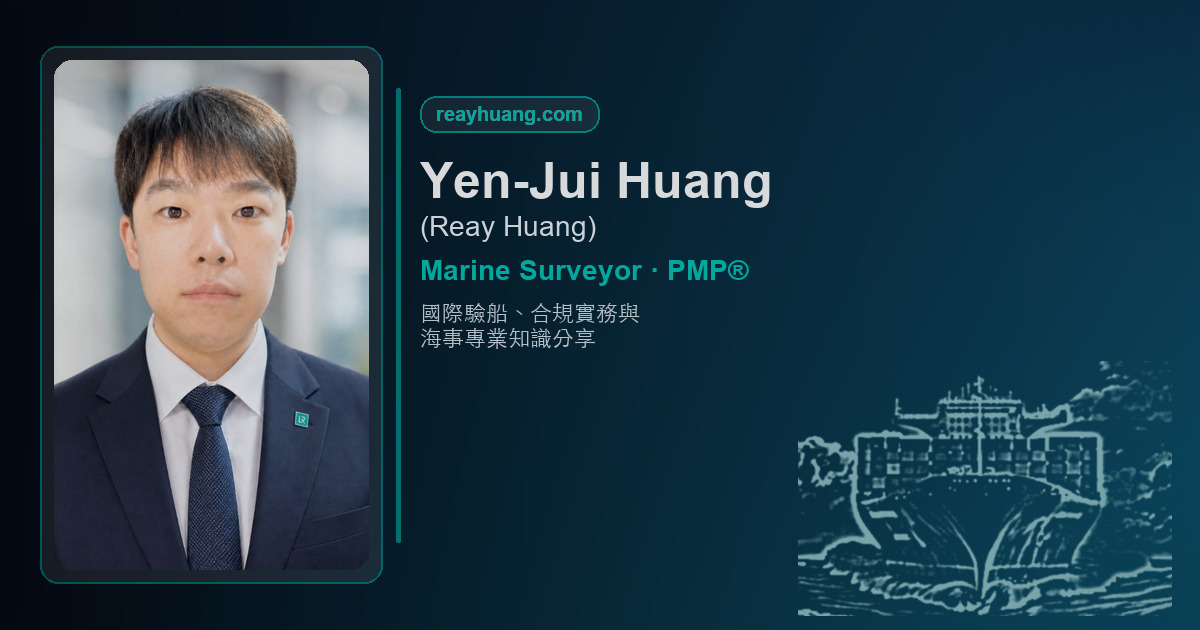
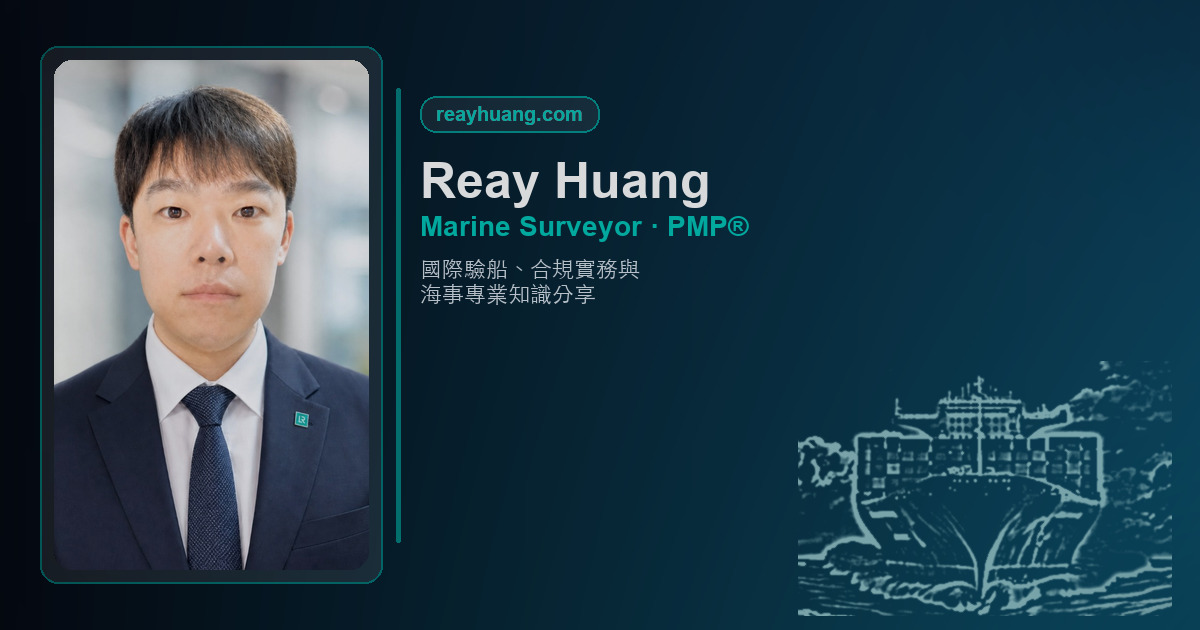
Rebrand site identity from Yen-Jui Huang to Reay Huang.
Use Reay Huang consistently in headers, metadata, footers, and OG preview images so the personal brand is easier to remember.

Changed region(s): [[0.3392, 0.2413, 0.6475, 0.573]]

diff --git a/index.html b/index.html
@@ -7,9 +7,9 @@
 
   <meta charset="UTF-8">
   <meta name="viewport" content="width=device-width, initial-scale=1">
-  <meta name="description" content="Yen-Jui Huang (Reay Huang) — Lloyd's Register Marine Surveyor, PMP®. Maritime notes, management notes, and professional knowledge.">
-  <title>Yen-Jui Huang | Marine Surveyor · PMP®</title>
-  <meta property="og:title" content="Yen-Jui Huang | Marine Surveyor · PMP®" />
+  <meta name="description" content="Reay Huang — Lloyd's Register Marine Surveyor, PMP®. Maritime notes, management notes, and professional knowledge.">
+  <title>Reay Huang | Marine Surveyor · PMP®</title>
+  <meta property="og:title" content="Reay Huang | Marine Surveyor · PMP®" />
   <meta property="og:description" content="International survey, compliance, and professional insights in maritime practice. Lloyd's Register Surveyor based in Ulsan, Korea." />
   <meta property="og:type" content="website" />
   <meta property="og:locale" content="en_US" />
@@ -18,12 +18,12 @@
   <link rel="canonical" href="https://reayhuang.com/" />
   <!-- Social preview: og:image must be a public HTTPS URL (LinkedIn, Slack, iMessage, etc.) -->
   <meta property="og:image" content="https://reayhuang.com/assets/images/homepage-linkedin-preview.en-1200.jpg" />
-  <meta property="og:image:alt" content="Yen-Jui Huang — Marine Surveyor · PMP®" />
+  <meta property="og:image:alt" content="Reay Huang — Marine Surveyor · PMP®" />
   <meta property="og:image:type" content="image/jpeg" />
   <meta property="og:image:width" content="1200" />
   <meta property="og:image:height" content="630" />
   <meta name="twitter:card" content="summary_large_image" />
-  <meta name="twitter:title" content="Yen-Jui Huang | Marine Surveyor · PMP®" />
+  <meta name="twitter:title" content="Reay Huang | Marine Surveyor · PMP®" />
   <meta name="twitter:description" content="International survey, compliance, and professional insights in maritime practice." />
   <meta name="twitter:image" content="https://reayhuang.com/assets/images/homepage-linkedin-preview.en-1200.jpg" />
   <link rel="alternate" hreflang="en" href="index.html" />
@@ -36,7 +36,7 @@
     <div class="site-header__inner">
       <a class="site-logo" href="index.html">
         <span class="site-logo__text">
-          Yen-Jui Huang
+          Reay Huang
           <span class="site-logo__role">Marine Surveyor · PMP®</span>
         </span>
       </a>
@@ -62,14 +62,14 @@
       <img
         class="hero-banner__photo"
         src="assets/images/reay-huang.png"
-        alt="Portrait of Yen-Jui Huang (Reay Huang)"
+        alt="Portrait of Reay Huang"
         width="788"
         height="1024"
       >
       <div>
         <h1 id="hero-title">Professional insights in marine survey and compliance</h1>
         <p class="lead">
-          I am <strong>Yen-Jui Huang</strong> (Reay Huang), a Lloyd's Register Surveyor based in Ulsan, Korea,
+          I am <strong>Reay Huang</strong>, a Lloyd's Register Surveyor based in Ulsan, Korea,
           and a <strong>PMP®</strong>. I previously spent more than 13 years at Evergreen Marine as Chief Engineer
           and Technical Superintendent for container fleets. This site collects my notes on maritime survey,
           regulations, and management topics.
@@ -164,8 +164,8 @@
 
   <footer class="site-footer">
     <div class="site-footer__inner">
-      <p class="site-footer__brand">Yen-Jui Huang</p>
-      <p>© <span id="year"></span> Yen-Jui Huang (Reay Huang) · Personal professional site</p>
+      <p class="site-footer__brand">Reay Huang</p>
+      <p>© <span id="year"></span> Reay Huang · Personal professional site</p>
       <p>
         <a href="https://www.linkedin.com/in/yen-jui-huang-pmp%C2%AE-a74285a2/" rel="noopener noreferrer">LinkedIn</a>
         · Employed at <a href="https://www.lr.org/en/" rel="noopener noreferrer">Lloyd's Register</a> (personal site; not an official company statement)

diff --git a/index.zh.html b/index.zh.html
@@ -7,9 +7,9 @@
 
   <meta charset="UTF-8">
   <meta name="viewport" content="width=device-width, initial-scale=1">
-  <meta name="description" content="Yen-Jui Huang（Reay Huang）— Lloyd's Register 驗船師、PMP®。海事筆記、管理筆記與專業知識分享。">
-  <title>Yen-Jui Huang｜海事驗船師 · PMP®</title>
-  <meta property="og:title" content="Yen-Jui Huang｜海事驗船師 · PMP®" />
+  <meta name="description" content="Reay Huang — Lloyd's Register 驗船師、PMP®。海事筆記、管理筆記與專業知識分享。">
+  <title>Reay Huang｜海事驗船師 · PMP®</title>
+  <meta property="og:title" content="Reay Huang｜海事驗船師 · PMP®" />
   <meta property="og:description" content="國際驗船、合規實務與海事專業知識分享。Lloyd's Register 驗船師，韓國蔚山。" />
   <meta property="og:type" content="website" />
   <meta property="og:locale" content="zh_TW" />
@@ -18,12 +18,12 @@
   <link rel="canonical" href="https://reayhuang.com/index.zh.html" />
   <!-- 分享預覽：og:image 必須是可公開存取的 HTTPS 完整網址 -->
   <meta property="og:image" content="https://reayhuang.com/assets/images/homepage-linkedin-preview-1200.jpg" />
-  <meta property="og:image:alt" content="Yen-Jui Huang — 海事驗船師 · PMP®" />
+  <meta property="og:image:alt" content="Reay Huang — 海事驗船師 · PMP®" />
   <meta property="og:image:type" content="image/jpeg" />
   <meta property="og:image:width" content="1200" />
   <meta property="og:image:height" content="630" />
   <meta name="twitter:card" content="summary_large_image" />
-  <meta name="twitter:title" content="Yen-Jui Huang｜海事驗船師 · PMP®" />
+  <meta name="twitter:title" content="Reay Huang｜海事驗船師 · PMP®" />
   <meta name="twitter:description" content="國際驗船、合規實務與海事專業知識分享。" />
   <meta name="twitter:image" content="https://reayhuang.com/assets/images/homepage-linkedin-preview-1200.jpg" />
   <link rel="alternate" hreflang="en" href="index.html" />
@@ -36,7 +36,7 @@
     <div class="site-header__inner">
       <a class="site-logo" href="index.zh.html">
         <span class="site-logo__text">
-          Yen-Jui Huang
+          Reay Huang
           <span class="site-logo__role">Marine Surveyor · PMP®</span>
         </span>
       </a>
@@ -62,14 +62,14 @@
       <img
         class="hero-banner__photo"
         src="assets/images/reay-huang.png"
-        alt="Yen-Jui Huang（Reay Huang）形象照"
+          alt="Reay Huang 形象照"
         width="788"
         height="1024"
       >
       <div>
         <h1 id="hero-title">海事檢驗與合規的專業知見</h1>
         <p class="lead">
-          我是 <strong>Yen-Jui Huang</strong>（Reay Huang），現任 Lloyd's Register Surveyor（韓國蔚山），
+          我是 <strong>Reay Huang</strong>，現任 Lloyd's Register Surveyor（韓國蔚山），
           PMP®。曾任長榮海運輪機長與貨櫃船隊機務督導逾 13 年。此網站整理海事檢驗、法規與管理相關筆記。
         </p>
         <ul class="hero__tags">
@@ -162,8 +162,8 @@
 
   <footer class="site-footer">
     <div class="site-footer__inner">
-      <p class="site-footer__brand">Yen-Jui Huang</p>
-      <p>© <span id="year"></span> Yen-Jui Huang（Reay Huang）· 個人專業分享網站</p>
+      <p class="site-footer__brand">Reay Huang</p>
+      <p>© <span id="year"></span> Reay Huang · 個人專業分享網站</p>
       <p>
         <a href="https://www.linkedin.com/in/yen-jui-huang-pmp%C2%AE-a74285a2/" rel="noopener noreferrer">LinkedIn</a>
         · 任職於 <a href="https://www.lr.org/en/" rel="noopener noreferrer">Lloyd's Register</a>（個人網站不代表公司立場）

diff --git a/about.html b/about.html
@@ -7,8 +7,8 @@
 
   <meta charset="UTF-8">
   <meta name="viewport" content="width=device-width, initial-scale=1">
-  <meta name="description" content="關於 Yen-Jui Huang（Reay Huang）— Lloyd's Register 驗船師、PMP®、學經歷與聯絡方式">
-  <title>關於我｜Yen-Jui Huang</title>
+  <meta name="description" content="關於 Reay Huang — Lloyd's Register 驗船師、PMP®、學經歷與聯絡方式">
+  <title>關於我｜Reay Huang</title>
   <link rel="alternate" hreflang="zh-Hant" href="about.html" />
   <link rel="alternate" hreflang="en" href="about.en.html" />
   <link rel="alternate" hreflang="x-default" href="about.en.html" />
@@ -19,7 +19,7 @@
     <div class="site-header__inner">
       <a class="site-logo" href="index.zh.html">
         <span class="site-logo__text">
-          Yen-Jui Huang
+          Reay Huang
           <span class="site-logo__role">Marine Surveyor · PMP®</span>
         </span>
       </a>
@@ -51,14 +51,14 @@
         <img
           class="profile__photo"
           src="assets/images/reay-huang.png"
-          alt="Yen-Jui Huang（Reay Huang）形象照"
+          alt="Reay Huang 形象照"
           width="788"
           height="1024"
         >
       </div>
       <div>
         <p>
-          我是 <strong>Yen-Jui Huang</strong>（<strong>Reay Huang</strong>），現任
+          我是 <strong>Reay Huang</strong>，現任
           <a href="https://www.lr.org/en/" rel="noopener noreferrer">Lloyd's Register（LR）</a>
           <strong>Surveyor</strong>，駐點韓國蔚山（Ulsan）從事現場檢驗。
           此前於 <strong>長榮海運（EVERGREEN LINE）</strong> 累積逾 13 年全職資歷，歷任輪機長、
@@ -233,14 +233,14 @@
     </div>
 
     <p class="callout">
-      聲明：本網站為 Yen-Jui Huang（Reay Huang）個人知識分享，內容不代表 Lloyd's Register 或任何雇主之官方立場。
+      聲明：本網站為 Reay Huang 個人知識分享，內容不代表 Lloyd's Register 或任何雇主之官方立場。
     </p>
   </main>
 
   <footer class="site-footer">
     <div class="site-footer__inner">
-      <p class="site-footer__brand">Yen-Jui Huang</p>
-      <p>© <span id="year"></span> Yen-Jui Huang（Reay Huang）</p>
+      <p class="site-footer__brand">Reay Huang</p>
+      <p>© <span id="year"></span> Reay Huang</p>
       <p>
         <a href="https://www.linkedin.com/in/yen-jui-huang-pmp%C2%AE-a74285a2/" rel="noopener noreferrer">LinkedIn</a>
       </p>

diff --git a/about.en.html b/about.en.html
@@ -7,8 +7,8 @@
 
   <meta charset="UTF-8">
   <meta name="viewport" content="width=device-width, initial-scale=1">
-  <meta name="description" content="About Yen-Jui Huang (Reay Huang) — Lloyd's Register Surveyor, PMP®, experience, education, and contact">
-  <title>About | Yen-Jui Huang</title>
+  <meta name="description" content="About Reay Huang — Lloyd's Register Surveyor, PMP®, experience, education, and contact">
+  <title>About | Reay Huang</title>
   <link rel="alternate" hreflang="zh-Hant" href="about.html" />
   <link rel="alternate" hreflang="en" href="about.en.html" />
   <link rel="alternate" hreflang="x-default" href="about.en.html" />
@@ -19,7 +19,7 @@
     <div class="site-header__inner">
       <a class="site-logo" href="index.html">
         <span class="site-logo__text">
-          Yen-Jui Huang
+          Reay Huang
           <span class="site-logo__role">Marine Surveyor · PMP®</span>
         </span>
       </a>
@@ -51,14 +51,14 @@
         <img
           class="profile__photo"
           src="assets/images/reay-huang.png"
-          alt="Portrait of Yen-Jui Huang (Reay Huang)"
+          alt="Portrait of Reay Huang"
           width="788"
           height="1024"
         >
       </div>
       <div>
         <p>
-          I am <strong>Yen-Jui Huang</strong> (<strong>Reay Huang</strong>), currently a
+          I am <strong>Reay Huang</strong>, currently a
           <a href="https://www.lr.org/en/" rel="noopener noreferrer">Lloyd's Register (LR)</a>
           <strong>Surveyor</strong> based in Ulsan, Korea, performing field surveys.
           Previously I spent more than 13 years at <strong>EVERGREEN LINE</strong> in full-time roles including Chief Engineer,
@@ -236,14 +236,14 @@
     </div>
 
     <p class="callout">
-      Disclaimer: this site is Yen-Jui Huang's personal knowledge sharing and does not represent Lloyd's Register or any employer.
+      Disclaimer: this site is Reay Huang's personal knowledge sharing and does not represent Lloyd's Register or any employer.
     </p>
   </main>
 
   <footer class="site-footer">
     <div class="site-footer__inner">
-      <p class="site-footer__brand">Yen-Jui Huang</p>
-      <p>© <span id="year"></span> Yen-Jui Huang (Reay Huang)</p>
+      <p class="site-footer__brand">Reay Huang</p>
+      <p>© <span id="year"></span> Reay Huang</p>
       <p>
         <a href="https://www.linkedin.com/in/yen-jui-huang-pmp%C2%AE-a74285a2/" rel="noopener noreferrer">LinkedIn</a>
       </p>

diff --git a/research/index.en.html b/research/index.en.html
@@ -8,7 +8,7 @@
   <meta charset="UTF-8">
   <meta name="viewport" content="width=device-width, initial-scale=1">
   <meta name="description" content="Management notes on project management, supply chain, and related topics.">
-  <title>Management Note | Yen-Jui Huang</title>
+  <title>Management Note | Reay Huang</title>
   <link rel="alternate" hreflang="zh-Hant" href="index.html" />
   <link rel="alternate" hreflang="en" href="index.en.html" />
   <link rel="alternate" hreflang="x-default" href="index.en.html" />
@@ -19,7 +19,7 @@
     <div class="site-header__inner">
       <a class="site-logo" href="../index.html">
         <span class="site-logo__text">
-          Yen-Jui Huang
+          Reay Huang
           <span class="site-logo__role">Marine Surveyor · PMP®</span>
         </span>
       </a>

diff --git a/notes/index.en.html b/notes/index.en.html
@@ -8,7 +8,7 @@
   <meta charset="UTF-8">
   <meta name="viewport" content="width=device-width, initial-scale=1">
   <meta name="description" content="Maritime notes on regulations, survey practice, and technical learning.">
-  <title>Maritime Note | Yen-Jui Huang</title>
+  <title>Maritime Note | Reay Huang</title>
   <link rel="alternate" hreflang="zh-Hant" href="index.html" />
   <link rel="alternate" hreflang="en" href="index.en.html" />
   <link rel="alternate" hreflang="x-default" href="index.en.html" />
@@ -19,7 +19,7 @@
     <div class="site-header__inner">
       <a class="site-logo" href="../index.html">
         <span class="site-logo__text">
-          Yen-Jui Huang
+          Reay Huang
           <span class="site-logo__role">Marine Surveyor · PMP®</span>
         </span>
       </a>

diff --git a/research/index.html b/research/index.html
@@ -8,7 +8,7 @@
   <meta charset="UTF-8">
   <meta name="viewport" content="width=device-width, initial-scale=1">
   <meta name="description" content="專案管理、供應鏈等管理相關領域的管理筆記">
-  <title>管理筆記｜Yen-Jui Huang</title>
+  <title>管理筆記｜Reay Huang</title>
   <link rel="alternate" hreflang="zh-Hant" href="index.html" />
   <link rel="alternate" hreflang="en" href="index.en.html" />
   <link rel="alternate" hreflang="x-default" href="index.en.html" />
@@ -19,7 +19,7 @@
     <div class="site-header__inner">
       <a class="site-logo" href="../index.zh.html">
         <span class="site-logo__text">
-          Yen-Jui Huang
+          Reay Huang
           <span class="site-logo__role">Marine Surveyor · PMP®</span>
         </span>
       </a>

diff --git a/notes/index.html b/notes/index.html
@@ -8,7 +8,7 @@
   <meta charset="UTF-8">
   <meta name="viewport" content="width=device-width, initial-scale=1">
   <meta name="description" content="海事筆記：海事法規、檢驗實務與技術學習">
-  <title>海事筆記｜Yen-Jui Huang</title>
+  <title>海事筆記｜Reay Huang</title>
   <link rel="alternate" hreflang="zh-Hant" href="index.html" />
   <link rel="alternate" hreflang="en" href="index.en.html" />
   <link rel="alternate" hreflang="x-default" href="index.en.html" />
@@ -19,7 +19,7 @@
     <div class="site-header__inner">
       <a class="site-logo" href="../index.zh.html">
         <span class="site-logo__text">
-          Yen-Jui Huang
+          Reay Huang
           <span class="site-logo__role">Marine Surveyor · PMP®</span>
         </span>
       </a>

diff --git a/scripts/generate-homepage-og.py b/scripts/generate-homepage-og.py
@@ -177,10 +177,8 @@ def draw_text_block(base: Image.Image, *, locale: str) -> None:
     draw.text((TEXT_X + 16, y + 6), pill_text, font=font_brand, fill=COLORS["teal"])
     y += 56
 
-    draw.text((TEXT_X, y), "Yen-Jui Huang", font=font_name, fill=COLORS["white"])
+    draw.text((TEXT_X, y), "Reay Huang", font=font_name, fill=COLORS["white"])
     y += 58
-    draw.text((TEXT_X, y), "(Reay Huang)", font=font_alias, fill=COLORS["light"])
-    y += 44
     draw.text((TEXT_X, y), "Marine Surveyor · PMP®", font=font_role, fill=COLORS["teal"])
     y += 48
 
